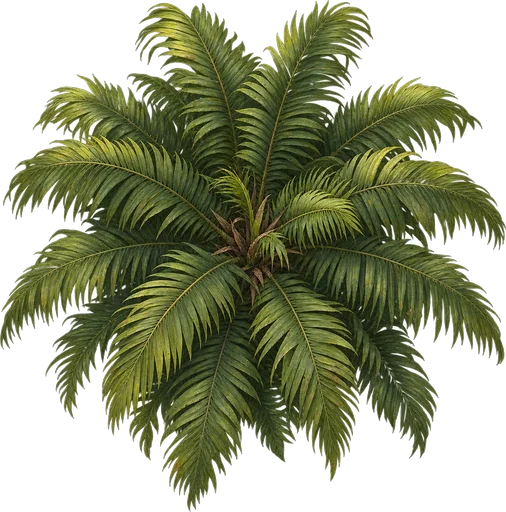
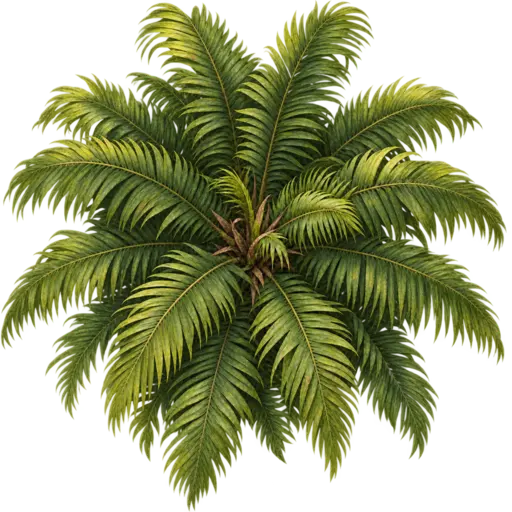
Fix jungle sprite transparency, destruction artwork and silhouette collision

diff --git a/index.html b/index.html
@@ -5,7 +5,7 @@
 <meta name="viewport" content="width=device-width, initial-scale=1, maximum-scale=1, user-scalable=no, viewport-fit=cover">
 <meta name="apple-mobile-web-app-capable" content="yes">
 <meta name="mobile-web-app-capable" content="yes">
-<title>こっそり戦車大作戦 2026.11.08.1013</title>
+<title>こっそり戦車大作戦 2026.11.08.1025</title>
 
 <style>
 .sound-control{display:flex;align-items:center;gap:7px;align-self:flex-start;width:auto;min-height:44px;margin:0;padding:0 8px 0 0;border:0;border-radius:0;background:transparent;text-align:left;color:#fff5cc;font:700 18px system-ui;cursor:pointer;touch-action:manipulation}
@@ -1001,7 +1001,7 @@ const cv=document.getElementById('c'),gm=gameCanvasContext(cv,{alpha:false}),oc=
 const canvasCreationDiagnostics={requested:MOBILE_READBACK_CANVAS,accepted:null};
 try{const attributes=gm.getContextAttributes?.();if(attributes&&typeof attributes.willReadFrequently==='boolean')canvasCreationDiagnostics.accepted=attributes.willReadFrequently;}catch(_){}
 window.tankCanvasDiagnostics=canvasCreationDiagnostics;
-const GAME_VERSION='2026.11.08.1013',FILE_CREATED_AT='2026/11/08 10:13',DRILL_ACTIVE=5,DRILL_RECHARGE=6,DIG_PREP_DURATION=.5;
+const GAME_VERSION='2026.11.08.1025',FILE_CREATED_AT='2026/11/08 10:25',DRILL_ACTIVE=5,DRILL_RECHARGE=6,DIG_PREP_DURATION=.5;
 // 表示・保存用のm換算。移動・評価は内部座標のまま扱う。
 const distanceMeters=distance=>Math.round(Math.max(0,distance)/10);
 let audioCtx=null,gameAudioOutput=null;
@@ -1479,7 +1479,7 @@ function rockHitEllipse(c){
 function coverHitCircle(c){
  if(!c)return null;
  if(c.fr&&c.hr>0)return{x:c.hcx,y:c.hcy,r:c.hr};
- if(c.fr||c.playerBuilt)return null;
+ if(c.fr||c.playerBuilt||c.jungleAsset)return null;
  if(c.kd===6)return {x:c.x+c.w/2,y:c.y+c.h/2,r:Math.max(c.w,c.h)*.37};
  return null;
 }
@@ -1489,18 +1489,21 @@ function pointHitsEllipse(x,y,e,pad=0){const rx=e.rx+pad,ry=e.ry+pad;if(rx<=0||r
 function segmentHitsEllipse(a,b,e,pad=0){const rx=e.rx+pad,ry=e.ry+pad;if(rx<=0||ry<=0)return false;const aa={x:(a.x-e.x)/rx,y:(a.y-e.y)/ry},bb={x:(b.x-e.x)/rx,y:(b.y-e.y)/ry};return pointSegDist(0,0,aa,bb)<=1;}
 function circleHitsCover(x,y,r,c){
  if(!c||c.noHit)return false;
+ if(c.jungleAsset)return jungleCircleHit(c,x,y,r);
  const re=rockHitEllipse(c);if(re)return pointHitsEllipse(x,y,re,r);
  const cc=coverHitCircle(c);if(cc)return Math.hypot(x-cc.x,y-cc.y)<=r+cc.r;
  const rc=coverHitRect(c);return rc?circleHitsRect(x,y,r,rc):false;
 }
 function pointHitsCover(x,y,c,pad=0){
  if(!c||c.noHit)return false;
+ if(c.jungleAsset)return jungleCircleHit(c,x,y,pad);
  const re=rockHitEllipse(c);if(re)return pointHitsEllipse(x,y,re,pad);
  const cc=coverHitCircle(c);if(cc)return Math.hypot(x-cc.x,y-cc.y)<=cc.r+pad;
  const rc=coverHitRect(c);return rc?pointHitsCoverRect(x,y,rc,pad):false;
 }
 function segmentHitsCover(a,b,c,pad=0){
  if(!c||c.noHit)return false;
+ if(c.jungleAsset)return jungleSegmentHit(c,a,b,pad);
  const re=rockHitEllipse(c);if(re)return segmentHitsEllipse(a,b,re,pad);
  const cc=coverHitCircle(c);if(cc)return segmentHitsCircle(a,b,cc,pad);
  const rc=coverHitRect(c);if(!rc)return false;
@@ -1885,6 +1888,7 @@ function drawCoverFragmentGroup(f){
 }
 function drawCoverFragment(c){
  const src={kd:c.kd,x:c.ox0??c.x,y:c.oy0??c.y,w:c.ow0??c.ow??c.w,h:c.oh0??c.oh??c.h,playerBuilt:!!c.pb};
+ if(c.jungleAsset)src.jungleAsset=c.jungleAsset;
  if(c.indoorProp){src.indoorProp=true;src.propArt=c.propArt;}
  if(c.decisiveKind)src.decisiveKind=c.decisiveKind;
  if(c.indoorWall)src.indoorWall=true;
@@ -1897,7 +1901,7 @@ function drawCoverFragment(c){
   g.fillStyle=c.col||pal[0];g.fillRect(c.x,c.y,c.w,c.h);
  }
  // 無傷部分は元グラフィックをそのまま維持。破壊穴の縁だけ瓦礫化する。
- if(c.edge){
+ if(c.edge&&!c.jungleAsset){
   const pal=FRAG_COLORS[c.kd]||['#8a7a55','#6a5d40'];
   g.globalAlpha=.78;
   g.fillStyle=c.col||pal[0];
@@ -6275,6 +6279,8 @@ function carve(x,y,r,credit=false,objectDamageSource='impact',preserveNature=fal
    const edge=dist<=r+tile*1.1;
    const f={fr:1,kd:c.kd,x:a,y:b,w,h,col:pal[idx],rx,ry,ow,oh,ox0:c.x,oy0:c.y,ow0:c.w,oh0:c.h,pb:c.playerBuilt?1:0,mazeWall:c.mazeWall?1:0,edge:edge?1:0};
 
+   if(c.jungleAsset){f.jungleAsset=c.jungleAsset;if(!jungleMaskIntersects(f,a,b,a+w,b+h,()=>true))f.noHit=1;}
+
    if(c.decisiveKind)f.decisiveKind=c.decisiveKind;
    if(c.buildGroup){f.buildGroup=c.buildGroup;f.born=c.born;c.buildGroup.parts.push(f);}
    if(srcEllipse){
@@ -8687,7 +8693,8 @@ function reportGameError(error){
 <script src="js/gun-tower.js?v=2026.11.07.2250"></script>
 <script src="js/partner.js?v=2026.11.06.2245"></script>
 <script src="js/maze-walls.js?v=2026.10.14.1653"></script>
-<script src="js/jungle.js?v=2026.11.08.0128"></script>
+<script src="js/jungle-hit-masks.js?v=2026.11.08.1025"></script>
+<script src="js/jungle.js?v=2026.11.08.1025"></script>
 <script src="js/canyon.js?v=2026.11.08.0208"></script>
 <script src="js/vegetation.js?v=2026.10.14.1653"></script>
 <script src="js/laboratory.js?v=2026.10.31.2206"></script>

diff --git a/js/jungle-hit-masks.js b/js/jungle-hit-masks.js
@@ -1,0 +1,2 @@
+// Generated from deployed sprite alpha; see tests/helpers/build-jungle-hit-masks.py.
+const JUNGLE_HIT_MASKS={"concrete_hut":[1610612742,4294967294,4294967294,2147483646,2147483646,2147483646,2147483646,2147483646,2147483646,2147483646,4294967294,4294967294,4294967294,4294967295,4294967295,4294967295,4294967295,4294967295,4294967295,4294967295,4294967295,4294967295,4294967295,4294967295,2147483646,2147483646,2147483646,2147483646,2147483646,2147483646,2147483646,2147483646],"fallen_log":[0,96,96,352,2880,4032,159387584,2139103184,2143428592,2146648048,2147483644,1073741822,1073741822,2147483644,2147483644,2147483644,4294967294,4294967294,4294967295,4294967294,4294967292,4294967292,2147483644,1073741820,1073741822,1073741376,1072710656,540017664,1049088,0,0,0],"palm":[3146752,8142336,4094976,4127744,4192256,253754992,533725176,1073741820,134217712,67108860,268435454,1073741822,2147483646,2147483616,1207959536,134217720,268435452,536870910,1073741822,2147483623,2080374769,1140850672,67108784,134217616,130023376,130023296,104857344,70482432,1210368,14336,6144,0],"watchtower":[0,0,1879048198,4294967295,4294967294,2147483646,2147483646,2147483646,2147483646,2147483646,2147483646,2147483646,2147483646,2147483646,4294967295,4294967295,4294967295,4294967295,4294967295,4294967295,4294967295,4294967295,4294967295,2147483646,999289308,1073741820,1007677500,940568604,940568604,1044480,1044480,1044480],"wood_hut_large":[1077942278,4294967295,4294967295,4294967295,4294967295,4294967295,4294967295,4294967295,4294967295,4294967295,4294967295,4294967295,4294967295,4294967295,4294967295,4294967295,4294967295,4294967295,4294967295,4294967295,4294967295,4294967295,4294967295,4294967295,4294967295,4294967294,2147483646,2147483646,2147483646,2147483646,2147483646,507904],"wood_hut_small":[2139492350,2147483646,2147483646,2147483646,2147483646,2147483646,2147483646,2147483646,2147483646,2147483646,2147483646,2147483647,2147483647,2147483646,2147483646,4294967294,4294967294,4294967295,4294967295,4294967295,4294967295,4294967295,4294967295,4294967295,2147483646,1073741820,1073741820,1073741820,1073741820,1073741820,1073741820,1073741820]};

diff --git a/js/jungle.js b/js/jungle.js
@@ -2,7 +2,31 @@
 // Images load only after selecting the jungle, leaving normal stage startup unchanged.
 const JUNGLE_ASSETS={palm:[6,136,136],fallen_log:[0,190,62],wood_hut_small:[4,160,135],wood_hut_large:[4,220,158],concrete_hut:[3,185,156],watchtower:[3,150,205]};
 function loadJungleAssets(){
- for(const key of Object.keys(JUNGLE_ASSETS))if(!COVER_IMG['jungle_'+key])COVER_IMG['jungle_'+key]=makeAssetImage(ASSET_DIR+'jungle/'+key+'.webp');
+ for(const key of Object.keys(JUNGLE_ASSETS))if(!COVER_IMG['jungle_'+key])COVER_IMG['jungle_'+key]=makeAssetImage(ASSET_DIR+'jungle/'+key+'.webp?v='+GAME_VERSION);
+}
+// Alpha silhouettes are compiled at build time; collision never reads canvas pixels.
+// Each of the 32 rows is a bitset. Query only cells near the actor/projectile.
+function jungleMaskIntersects(c,x0,y0,x1,y1,test){
+ const rows=JUNGLE_HIT_MASKS[c.jungleAsset];if(!rows)return false;
+ const sx=c.ox0??c.x,sy=c.oy0??c.y,sw=c.ow0??c.w,sh=c.oh0??c.h,dx=sw/32,dy=sh/32;
+ const left=Math.max(x0,c.x,sx),top=Math.max(y0,c.y,sy),right=Math.min(x1,c.x+c.w,sx+sw),bottom=Math.min(y1,c.y+c.h,sy+sh);
+ if(right<left||bottom<top)return false;
+ const col0=Math.max(0,Math.floor((left-sx)/dx)),col1=Math.min(31,Math.floor((right-sx)/dx));
+ const row0=Math.max(0,Math.floor((top-sy)/dy)),row1=Math.min(31,Math.floor((bottom-sy)/dy));
+ for(let row=row0;row<=row1;row++)for(let col=col0;col<=col1;col++)if(rows[row]&(1<<col)){
+  const x=Math.max(c.x,sx+col*dx),y=Math.max(c.y,sy+row*dy),w=Math.min(c.x+c.w,sx+(col+1)*dx)-x,h=Math.min(c.y+c.h,sy+(row+1)*dy)-y;
+  if(w>0&&h>0&&test(x,y,w,h))return true;
+ }
+ return false;
+}
+function jungleCircleHit(c,x,y,r=0){
+ return jungleMaskIntersects(c,x-r,y-r,x+r,y+r,(a,b,w,h)=>{
+  const dx=Math.max(a-x,0,x-a-w),dy=Math.max(b-y,0,y-b-h);return dx*dx+dy*dy<=r*r;
+ });
+}
+function jungleSegmentHit(c,a,b,pad=0){
+ return jungleMaskIntersects(c,Math.min(a.x,b.x)-pad,Math.min(a.y,b.y)-pad,Math.max(a.x,b.x)+pad,Math.max(a.y,b.y)+pad,
+  (x,y,w,h)=>segmentHitsRect(a,b,{x:x-pad,y:y-pad,w:w+pad*2,h:h+pad*2}));
 }
 function setupJungleScenery(z){
  loadJungleAssets();

diff --git a/tests/helpers/build-jungle-hit-masks.py b/tests/helpers/build-jungle-hit-masks.py
@@ -1,0 +1,30 @@
+"""Compile 32x32 collision silhouettes from the deployed WebP alpha channels.
+
+Run from the repository root after replacing a jungle sprite. This only reads
+images; it writes JS collision data and does not modify the image assets.
+"""
+import json
+from pathlib import Path
+from PIL import Image
+
+root = Path(__file__).resolve().parents[2]
+masks = {}
+for path in sorted((root / 'assets/jungle').glob('*.webp')):
+    image = Image.open(path).convert('RGBA')
+    width, height = image.size
+    alpha = image.getchannel('A')
+    rows = []
+    for row in range(32):
+        bits = 0
+        for col in range(32):
+            x0, x1 = col * width // 32, (col + 1) * width // 32
+            y0, y1 = row * height // 32, (row + 1) * height // 32
+            opaque = sum(alpha.getpixel((x, y)) >= 128
+                         for y in range(y0, y1) for x in range(x0, x1))
+            if opaque >= (x1 - x0) * (y1 - y0) * .45:
+                bits |= 1 << col
+        rows.append(bits)
+    masks[path.stem] = rows
+(root / 'js/jungle-hit-masks.js').write_text(
+    '// Generated from deployed sprite alpha; see tests/helpers/build-jungle-hit-masks.py.\n'
+    + 'const JUNGLE_HIT_MASKS=' + json.dumps(masks, separators=(',', ':')) + ';\n')

diff --git a/docs/jungle-test-stage.md b/docs/jungle-test-stage.md
@@ -5,11 +5,14 @@
 - 密林のみの全長2,400pxのテストエリア。背景は湿地と同じ `terrain/wetland.webp`。
 - 添付6点（ヤシ、倒木、小型・大型木造小屋、コンクリート小屋、屋根なし監視塔）を使用。
 - 受領形式はJPEG。受領JPEGおよび無加工のPNG保存版を `assets/jungle/` に保持。
-- 配置用WebPは外周とつながる白背景を透過し、余白を切り詰め、最大512pxで保存。約373KB（365KiB）。元画像の再生成はしていません。
+- 配置用WebPは縁の白・灰色残りと監視塔の支柱間などの閉じた隙間を含めて透過を修正。最大512px、6点合計325,044bytes。受領JPEGと元PNGは変更せず保持し、透過修正版のみゲームに使用。
 - 元画像はCloudflare配信対象から除外。WebPは密林選択時だけ読み込み。
 - 既存の遮蔽物物理、破壊片、空間グリッド、画面外描画省略を利用。
 - 中央の縦通路、左右の小屋・植生・岩、開始地点の全種戦車、無敵・弾数燃料無制限、敵歩兵・戦車を配置。
 - 正式ステージのランダム候補には追加していません。
+- 破壊片にも密林素材の識別子を保持し、無傷の部分は同じ画像から切り出して描画。既存建物への置換や、透明部分への瓦礫色の四角い描画を抑止。
+- 移動・被弾・視線の判定はWebPのアルファから事前生成した32×32セルの輪郭を共用。透明な角と監視塔の隙間を除外し、破壊片では元の輪郭を各破片の範囲で切り取る（判定の粒度は配置サイズの約1/32）。
+- 判定データは `python tests/helpers/build-jungle-hit-masks.py` で再生成。実行中の画像読み取りは不要。画像はバージョン付きURLで更新し、既存の遅延読み込み・破片キャッシュ・空間グリッドを維持。
 
 検証：`node --test tests/jungle.test.cjs` で単一エリア構成、全6素材、中央通路、出現地点、当たり判定、描画呼び出し、遅延読み込み、WebP容量および原本保持を確認。
 iPhone実機の表示・操作・発熱は未確認。
